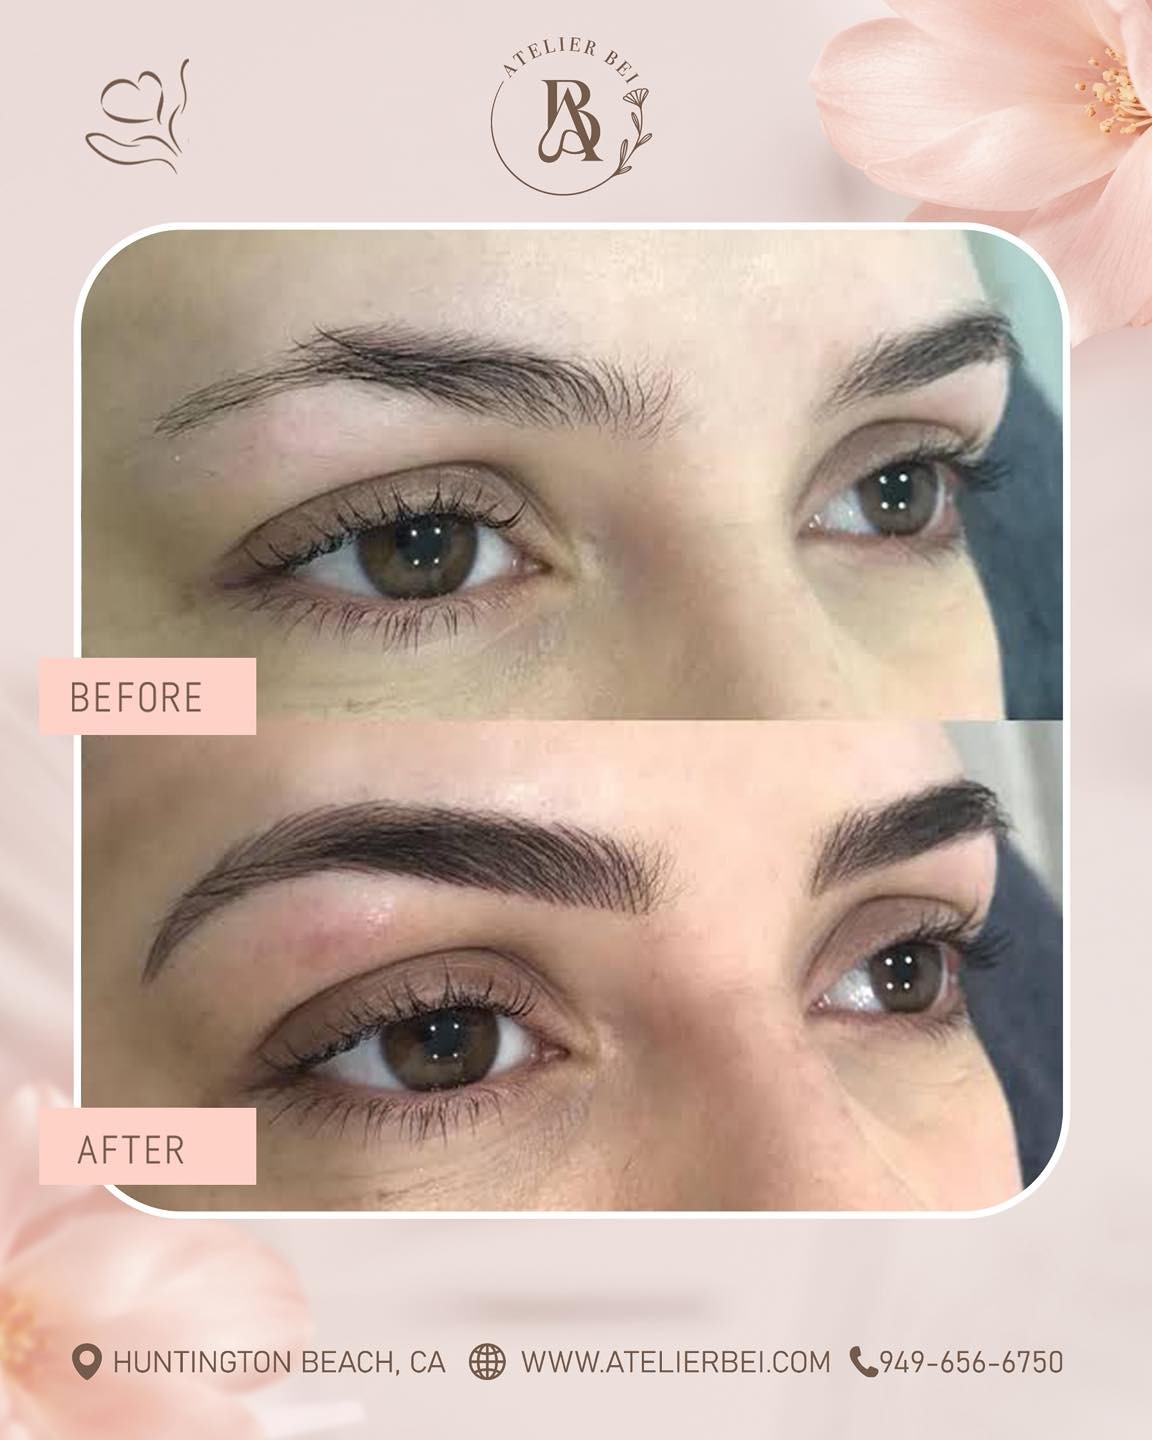
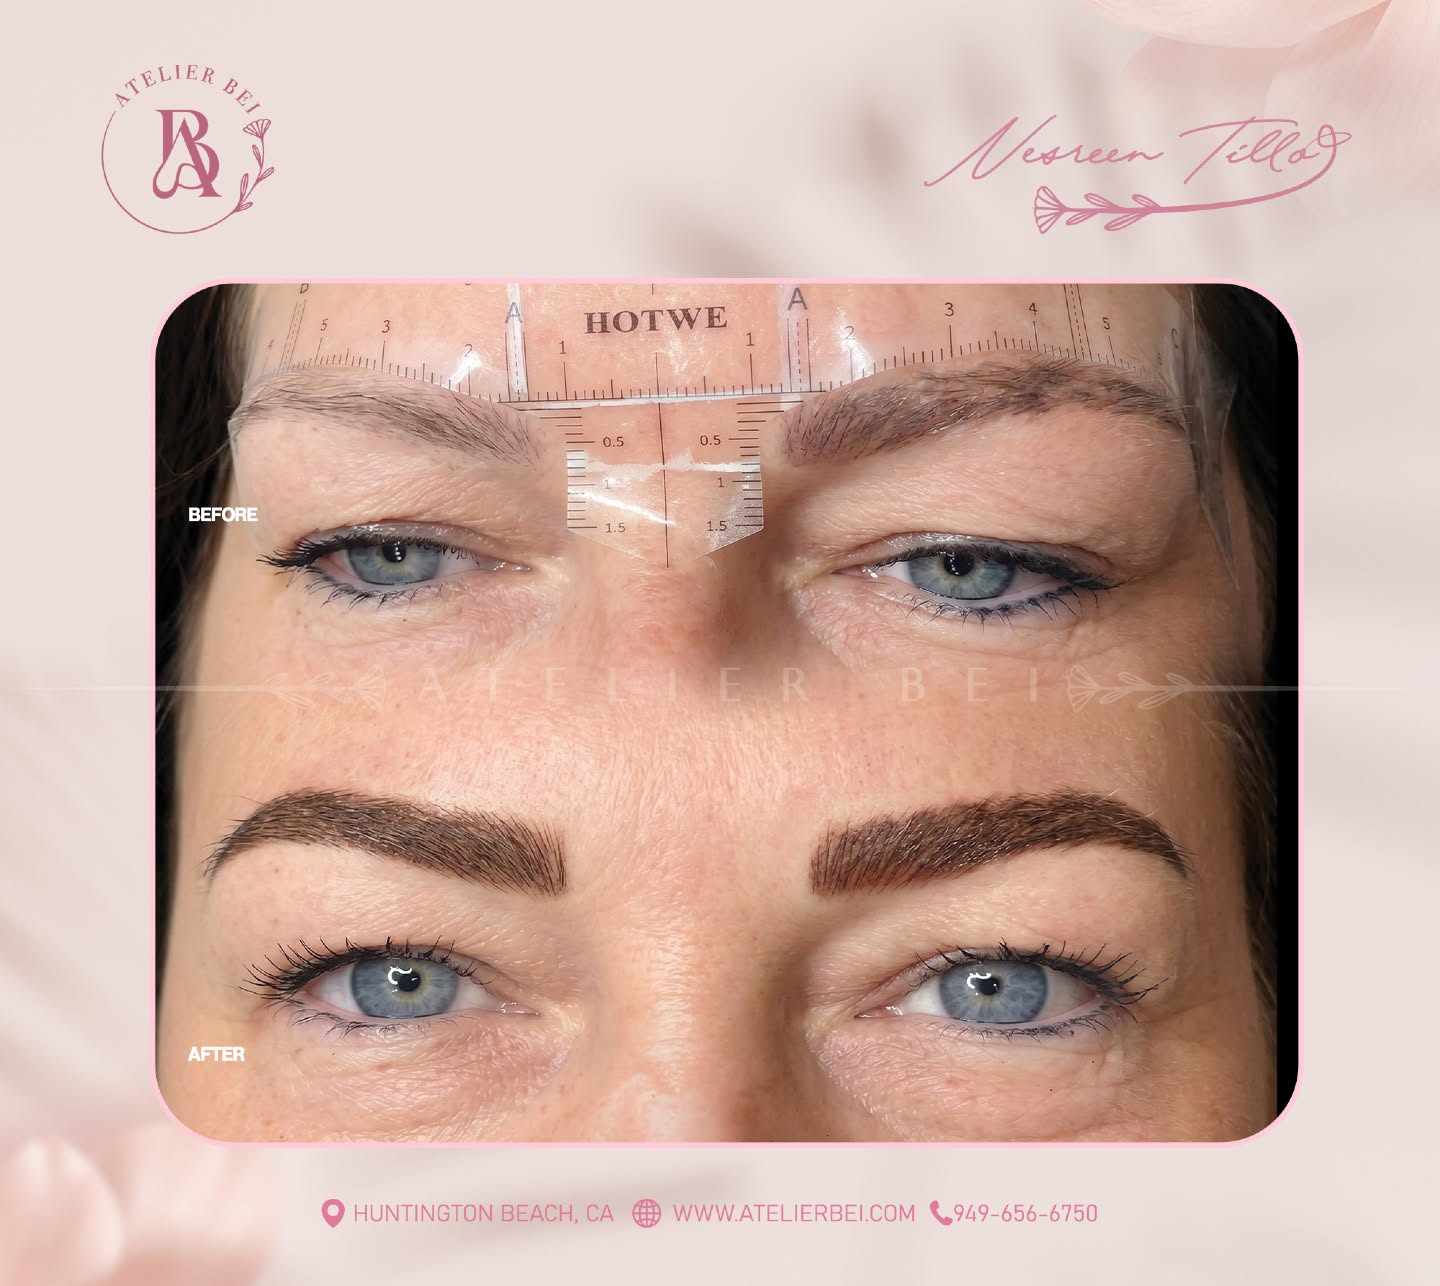
Update hero, about photo, and before/after gallery
- Replace hero image with cover.jpeg as full-width hero
- Add personalnisreen.jpg to About Atelier section (left column)
- Swap before/after gallery to 15 new beforeafter images

Generated with [Devin](https://devin.ai)

diff --git a/src/App.jsx b/src/App.jsx
@@ -87,35 +87,11 @@ const Navbar = ({ scrollY }) => {
 const HeroSection = ({ scrollY }) => {
   return (
     <section id="home" className="relative overflow-hidden bg-ivory pt-16 md:pt-0">
-      <div className="absolute top-1/4 -right-32 md:-right-32 -right-20 z-0 opacity-[0.15] md:opacity-[0.15] opacity-[0.08]">
-        <video 
-          autoPlay 
-          loop 
-          muted 
-          playsInline 
-          className="w-[300px] md:w-[500px] h-auto"
-        >
-          <source src="/flowervid.mp4" type="video/mp4" />
-        </video>
-      </div>
-      
-      <div className="absolute top-1/3 -left-32 md:-left-32 -left-20 z-0 opacity-[0.12] md:opacity-[0.12] opacity-[0.06]">
-        <video 
-          autoPlay 
-          loop 
-          muted 
-          playsInline 
-          className="w-[250px] md:w-[400px] h-auto transform scale-x-[-1]"
-        >
-          <source src="/flowervid.mp4" type="video/mp4" />
-        </video>
-      </div>
-
       <div className="w-full relative z-10 fade-in-up">
-        <img 
-          src="/herooo.png" 
-          alt="Hero" 
-          className="w-full h-auto object-contain"
+        <img
+          src="/nisreen/cover.jpeg"
+          alt="Hero"
+          className="w-full h-auto object-cover block"
         />
       </div>
     </section>
@@ -138,23 +114,33 @@ const AboutSection = () => {
       </div>
 
       <div className="container mx-auto px-6 lg:px-12 relative z-10">
-        <div className="max-w-3xl mx-auto text-center space-y-8">
-          <div className="space-y-4">
-            <h2 className="text-5xl font-serif font-light text-[#3A3A3A]">About Atelier bei</h2>
-            <div className="w-20 h-px bg-gold mx-auto"></div>
+        <div className="max-w-5xl mx-auto grid md:grid-cols-2 gap-12 items-center">
+          <div className="order-1 md:order-1 flex justify-center">
+            <img
+              src="/nisreen/personalnisreen.jpg"
+              alt="Nisreen"
+              className="w-full max-w-sm rounded-lg shadow-md object-cover"
+            />
           </div>
 
-          <p className="text-lg text-[#3A3A3A]/70 font-light leading-relaxed">
-            My journey began with a love for helping others feel confident in their own skin, and today, 
-            I specialize in creating perfectly tailored brows through the art of microblading.
-          </p>
+          <div className="order-2 md:order-2 space-y-8 text-center md:text-left">
+            <div className="space-y-4">
+              <h2 className="text-5xl font-serif font-light text-[#3A3A3A]">About Atelier bei</h2>
+              <div className="w-20 h-px bg-gold mx-auto md:mx-0"></div>
+            </div>
 
-          <p className="text-base text-[#3A3A3A]/60 font-light leading-relaxed">
-            To me, beauty is about balance, detail, and timeless elegance. Every set of brows I design is 
-            approached with precision, artistry, and an understanding of how to enhance each client's natural 
-            features. My mission is to deliver results that are not only flawless and refined, but also 
-            effortlessly natural—brows that elevate your entire look and simplify your daily routine.
-          </p>
+            <p className="text-lg text-[#3A3A3A]/70 font-light leading-relaxed">
+              My journey began with a love for helping others feel confident in their own skin, and today,
+              I specialize in creating perfectly tailored brows through the art of microblading.
+            </p>
+
+            <p className="text-base text-[#3A3A3A]/60 font-light leading-relaxed">
+              To me, beauty is about balance, detail, and timeless elegance. Every set of brows I design is
+              approached with precision, artistry, and an understanding of how to enhance each client's natural
+              features. My mission is to deliver results that are not only flawless and refined, but also
+              effortlessly natural—brows that elevate your entire look and simplify your daily routine.
+            </p>
+          </div>
         </div>
       </div>
     </section>
@@ -266,14 +252,21 @@ const ServicesSection = () => {
 
 const BeforeAfterSection = () => {
   const results = [
-    '/beforeafter/before after 1.jpg',
+    '/beforeafter/beforeafter1.jpg',
     '/beforeafter/beforeafter2.jpg',
-    '/beforeafter/before after3.jpg',
-    '/beforeafter/baforeafter4.jpg',
-    '/beforeafter/baforeafter5.jpg',
-    '/beforeafter/before after6.jpg',
-    '/beforeafter/beofre after7.jpg',
-    '/beforeafter/beforeafter8.jpg'
+    '/beforeafter/beforeafter3.jpg',
+    '/beforeafter/beforeafter4.jpg',
+    '/beforeafter/beforeafter5.jpg',
+    '/beforeafter/beforeafter6.jpg',
+    '/beforeafter/beforeafter7.jpg',
+    '/beforeafter/beforeafter8.jpg',
+    '/beforeafter/beforeafter9.jpg',
+    '/beforeafter/beforeafter10.jpg',
+    '/beforeafter/beforeafter11.jpg',
+    '/beforeafter/beforeafter12.jpg',
+    '/beforeafter/beforeafter13.jpg',
+    '/beforeafter/beforeafter14.jpg',
+    '/beforeafter/beforeafter15.jpg'
   ];
 
   return (
